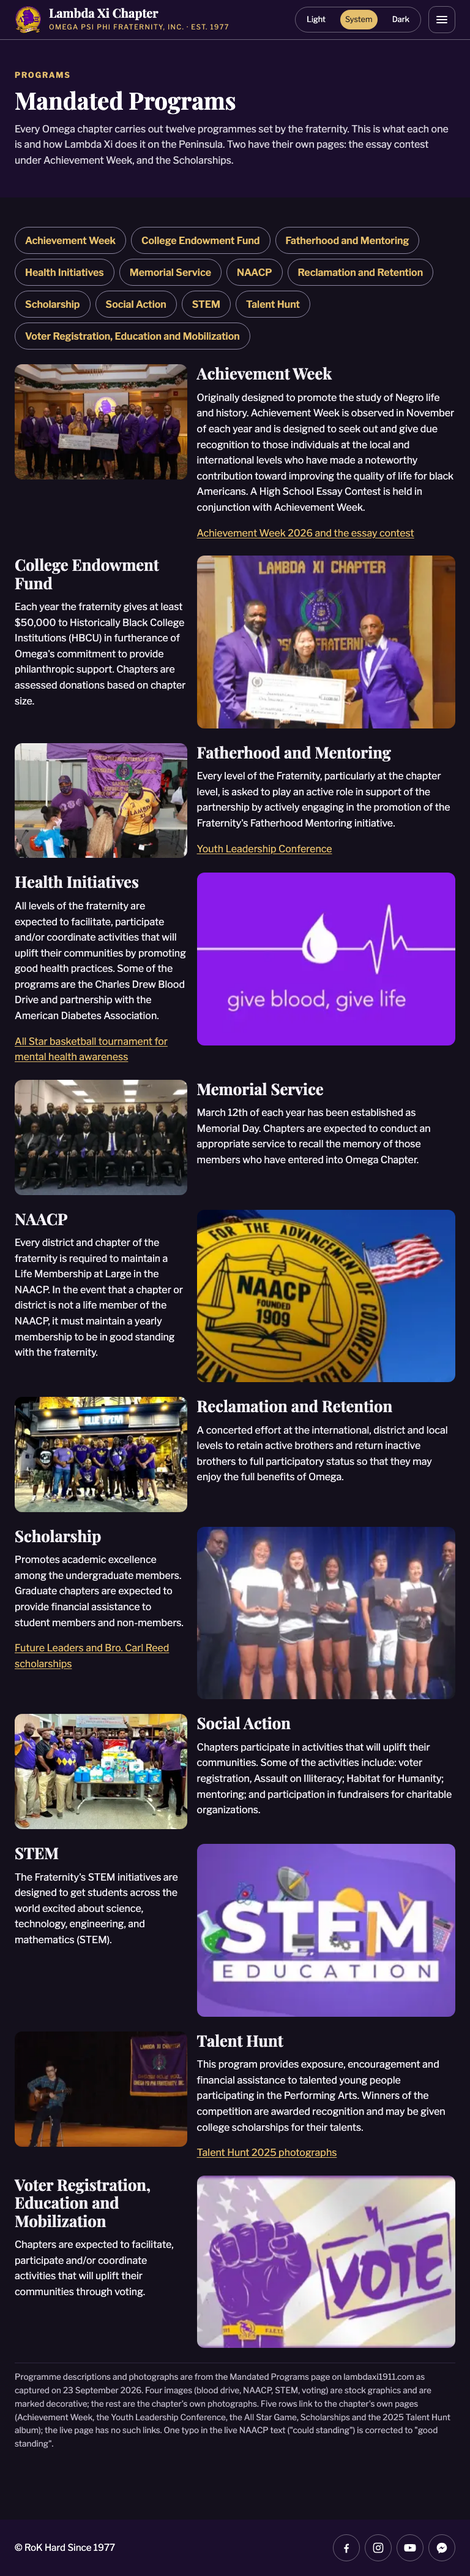
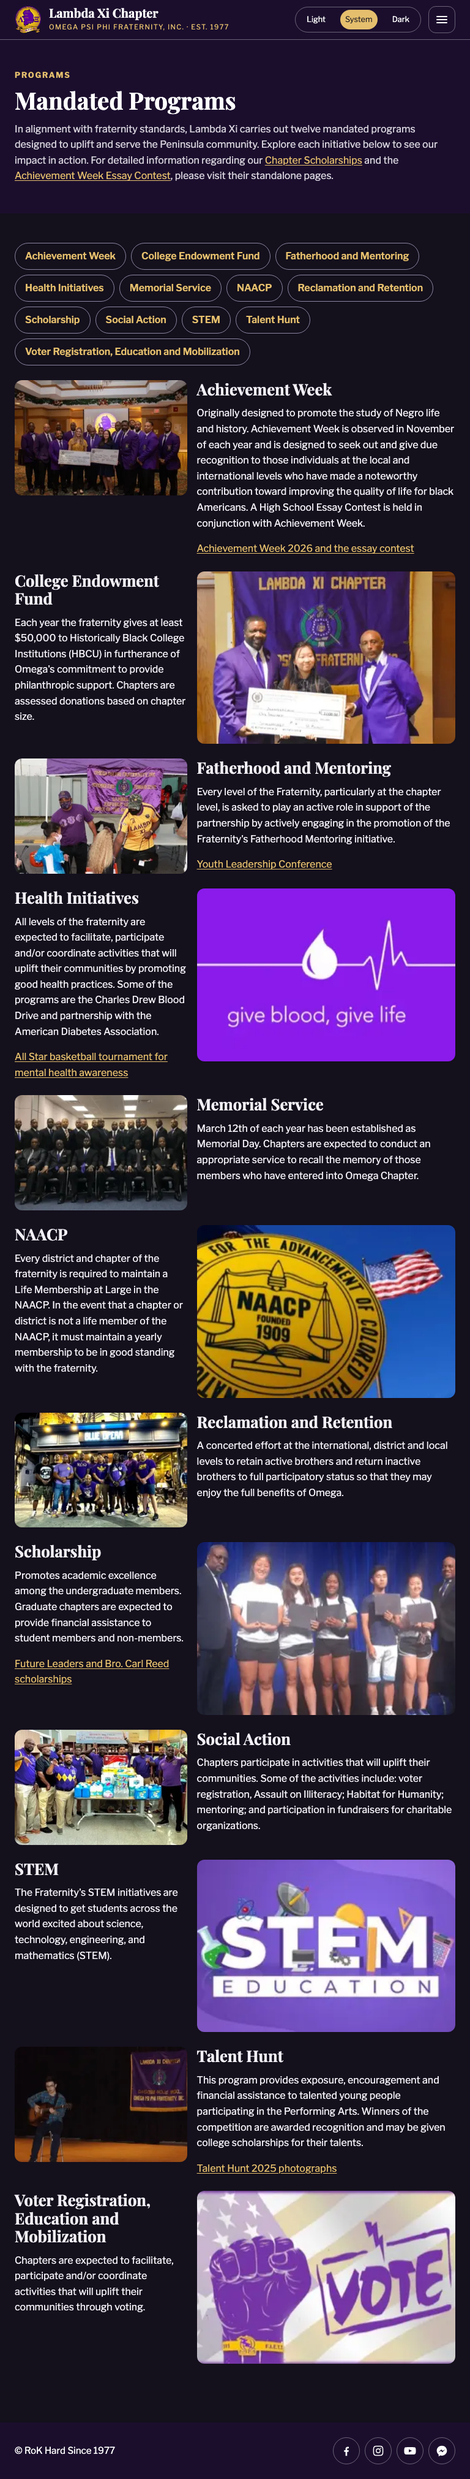
content: new introduction on Mandated Programs

diff --git a/mandated-programs/mock/mandated-programs-mock.html b/mandated-programs/mock/mandated-programs-mock.html
@@ -98,7 +98,7 @@
     <div class="container">
       <p class="eyebrow">Programs</p>
       <h1>Mandated Programs</h1>
-      <p>Every Omega chapter carries out twelve programmes set by the fraternity. This is what each one is and how Lambda Xi does it on the Peninsula. Two have their own pages: the essay contest under Achievement Week, and the Scholarships.</p>
+      <p>In alignment with fraternity standards, Lambda Xi carries out twelve mandated programs designed to uplift and serve the Peninsula community. Explore each initiative below to see our impact in action. For detailed information regarding our <a href="../../scholarships/mock/scholarships-mock.html">Chapter Scholarships</a> and the <a href="../../achievement-week/mock/achievement-week-mock.html#essay-contest">Achievement Week Essay Contest</a>, please visit their standalone pages.</p>
     </div>
   </div>
 

diff --git a/tooling/mock-src/pages/programs.html b/tooling/mock-src/pages/programs.html
@@ -13,7 +13,7 @@
     <div class="container">
       <p class="eyebrow">Programs</p>
       <h1>Mandated Programs</h1>
-      <p>Every Omega chapter carries out twelve programmes set by the fraternity. This is what each one is and how Lambda Xi does it on the Peninsula. Two have their own pages: the essay contest under Achievement Week, and the Scholarships.</p>
+      <p>In alignment with fraternity standards, Lambda Xi carries out twelve mandated programs designed to uplift and serve the Peninsula community. Explore each initiative below to see our impact in action. For detailed information regarding our <a href="{{href:scholarships}}">Chapter Scholarships</a> and the <a href="{{href:achievementWeek}}#essay-contest">Achievement Week Essay Contest</a>, please visit their standalone pages.</p>
     </div>
   </div>
 

diff --git a/docs/programs/index.html b/docs/programs/index.html
@@ -99,7 +99,7 @@
     <div class="container">
       <p class="eyebrow">Programs</p>
       <h1>Mandated Programs</h1>
-      <p>Every Omega chapter carries out twelve programmes set by the fraternity. This is what each one is and how Lambda Xi does it on the Peninsula. Two have their own pages: the essay contest under Achievement Week, and the Scholarships.</p>
+      <p>In alignment with fraternity standards, Lambda Xi carries out twelve mandated programs designed to uplift and serve the Peninsula community. Explore each initiative below to see our impact in action. For detailed information regarding our <a href="../scholarships/">Chapter Scholarships</a> and the <a href="../events/achievement-week/#essay-contest">Achievement Week Essay Contest</a>, please visit their standalone pages.</p>
     </div>
   </div>
 

diff --git a/merged/mandated-programs.html b/merged/mandated-programs.html
@@ -98,7 +98,7 @@
     <div class="container">
       <p class="eyebrow">Programs</p>
       <h1>Mandated Programs</h1>
-      <p>Every Omega chapter carries out twelve programmes set by the fraternity. This is what each one is and how Lambda Xi does it on the Peninsula. Two have their own pages: the essay contest under Achievement Week, and the Scholarships.</p>
+      <p>In alignment with fraternity standards, Lambda Xi carries out twelve mandated programs designed to uplift and serve the Peninsula community. Explore each initiative below to see our impact in action. For detailed information regarding our <a href="scholarships.html">Chapter Scholarships</a> and the <a href="achievement-week.html#essay-contest">Achievement Week Essay Contest</a>, please visit their standalone pages.</p>
     </div>
   </div>
 
